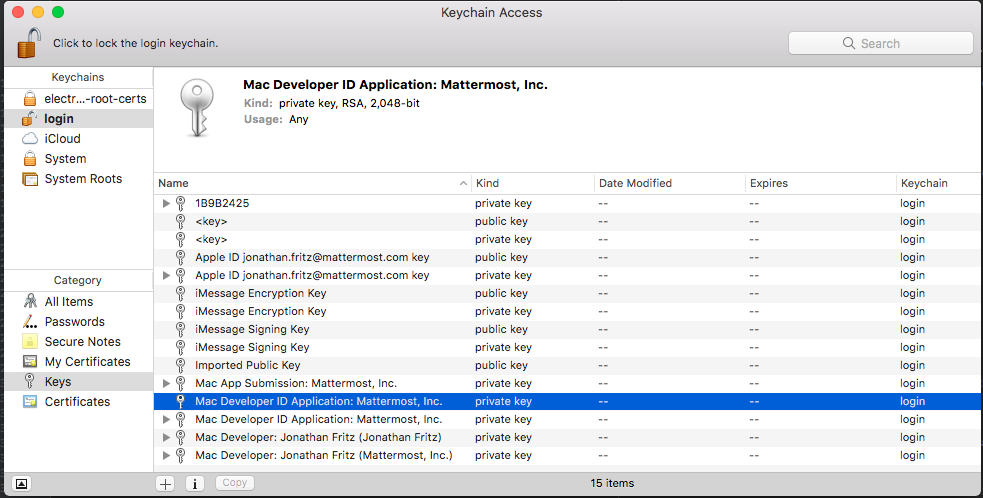
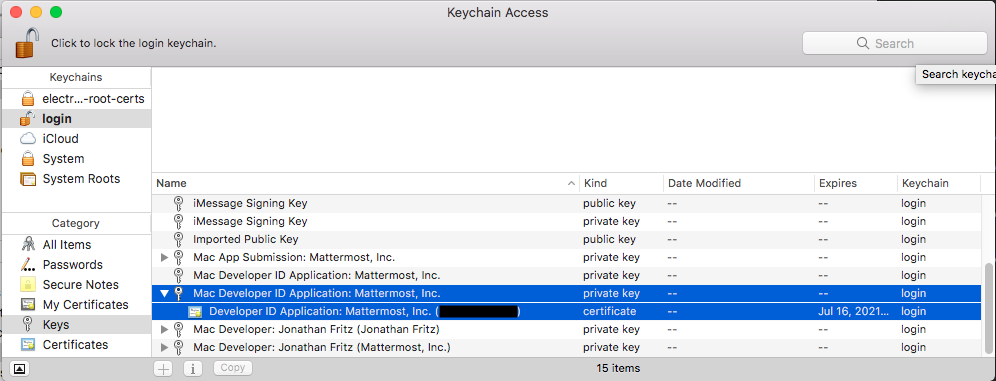
PR feedback, added an alternate way to get certs

diff --git a/site/content/contribute/desktop/code-signing.md b/site/content/contribute/desktop/code-signing.md
@@ -4,9 +4,9 @@ date: 2018-01-16T10:32:51-05:00
 subsection: "Desktop App"
 ---
 # Code Signing
-When releasing the Mattermost Desktop application for Windows and macOS, we have to sign the executable with a certificate that allows the end users' computer to verify our identity. 
+When releasing the Mattermost Desktop application for Windows and macOS, we have to sign the executable with a certificate that allows the end user's computer to verify our identity. 
 
-The signing procedure varies depending on the platform that the release is destined for, and the platform that the signing operation is performed on. This page attempts to document the procedure and some common pitfalls that developers may encounter along the way.
+The signing procedure varies depending on the platform that the release is destined for and the platform that the signing operation is performed on. This page attempts to document the procedure and some common pitfalls that developers may encounter along the way.
 
 ## Code Signing Windows Releases
 Releases destined for Windows can be code signed on Windows, macOS, or Linux. 
@@ -40,7 +40,7 @@ Where
 <ul>
     <li>**PATH_TO_THE_PFX_FILE** is the absolute path to the `.pfx` file that was obtained in the Prerequisites section above</li>
     <li>**PFX_FILE_PASSWORD** is the password that protects the `.pfx` file from being misused</li>
-    <li>**PATH_TO_UNSIGNED_EXE** is the absolute path of the unsided executable that you want to sign. It is typically in the `release/win` or `release/win-ia32` subdirectory of the repository</li>
+    <li>**PATH_TO_UNSIGNED_EXE** is the absolute path of the unsigned executable that you want to sign. It is typically in the `release/win` or `release/win-ia32` subdirectory of the repository</li>
     <li>**PATH_TO_WRITE_SIGNED_EXE_TO** is the absolute path to write the signed executable to
 </ul>
 
@@ -92,7 +92,19 @@ If you aren't a member of the Mattermost, Inc. team, talk to Joram Wilander, Cor
 
 Once you are a member of the team, click the **Download Manual Profiles** button at the bottom of the Accounts dialog. Next, highlight **Mattermost, Inc.** in the team list, and click the **Manage Certificates...** button. 
 
-In the dialog that appears, ensure that you have a **Developer ID Application** certificate under the **macOS Distribution Certificates** heading. The entry in the **Status** column for this certificate will be `Missing Private Key`:
+In the dialog that appears, ensure that you have a **Developer ID Application** certificate under the **macOS Distribution Certificates** heading:
+{{< figure src="/img/code-signing/missing-private-key.png" width="600px" >}}
+
+If you do not see the **macOS Distribution Certificates** heading or the **Developer ID Application** certificate is missing, you can download the certificate from [The Apple Developers Portal](https://developers.apple.com). Sign in with your Apple ID and select **Certificates, IDs & Profiles** from the left hand sidebar:  
+{{< figure src="/img/code-signing/apple-developer-lhs.png" width="600px" >}}
+
+From the drop down box in the top left hand corner of the **Certificates, Identifiers & Profiles** page that appears, select **macOS**. Next, under the **Certificates** heading in the left hand sidebar, select **All**. The **Mattermost, Inc. Developer ID Application** certificate should appear in the centre panel of the screen. Click on it to expand it and then click on the **Download** button that appears.
+{{< figure src="/img/code-signing/apple-developer-download-cert.png" width="600px" >}}
+
+Once downloaded, you can double-click on the certificate file to import it into your local keychain.
+{{< figure src="/img/code-signing/keychain-access.png" width="600px" >}}   
+
+Back in XCode, the entry in the **Status** column of the **Manage Certificates...** dialog for this certificate will be `Missing Private Key`:
 {{< figure src="/img/code-signing/missing-private-key.png" width="600px" >}}
 
 The private key is available in a `.p12` file that has been shared in LastPass. Talk to Joram Wilander, Corey Hulen, or Jonathan Fritz to get access to it. Once downloaded, double-click on the file to import it into your macOS keychain. It should appear in the **Keys** category of your **login** keychain:
